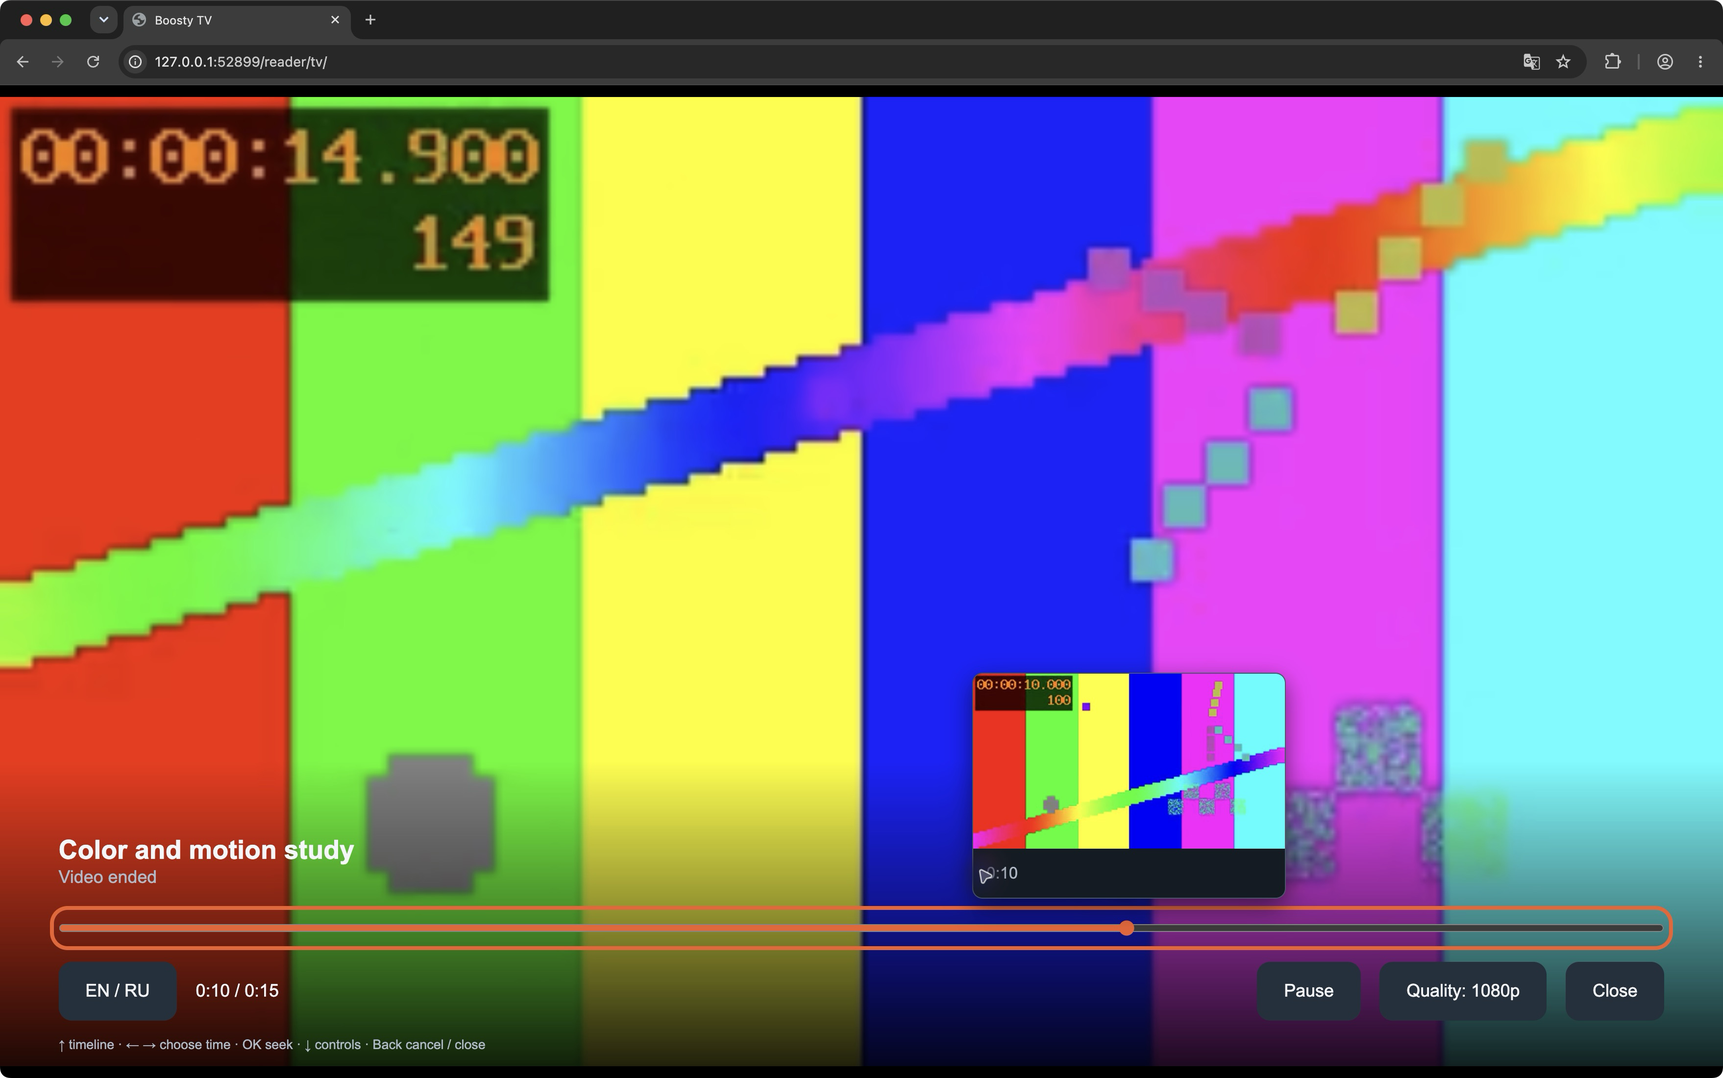
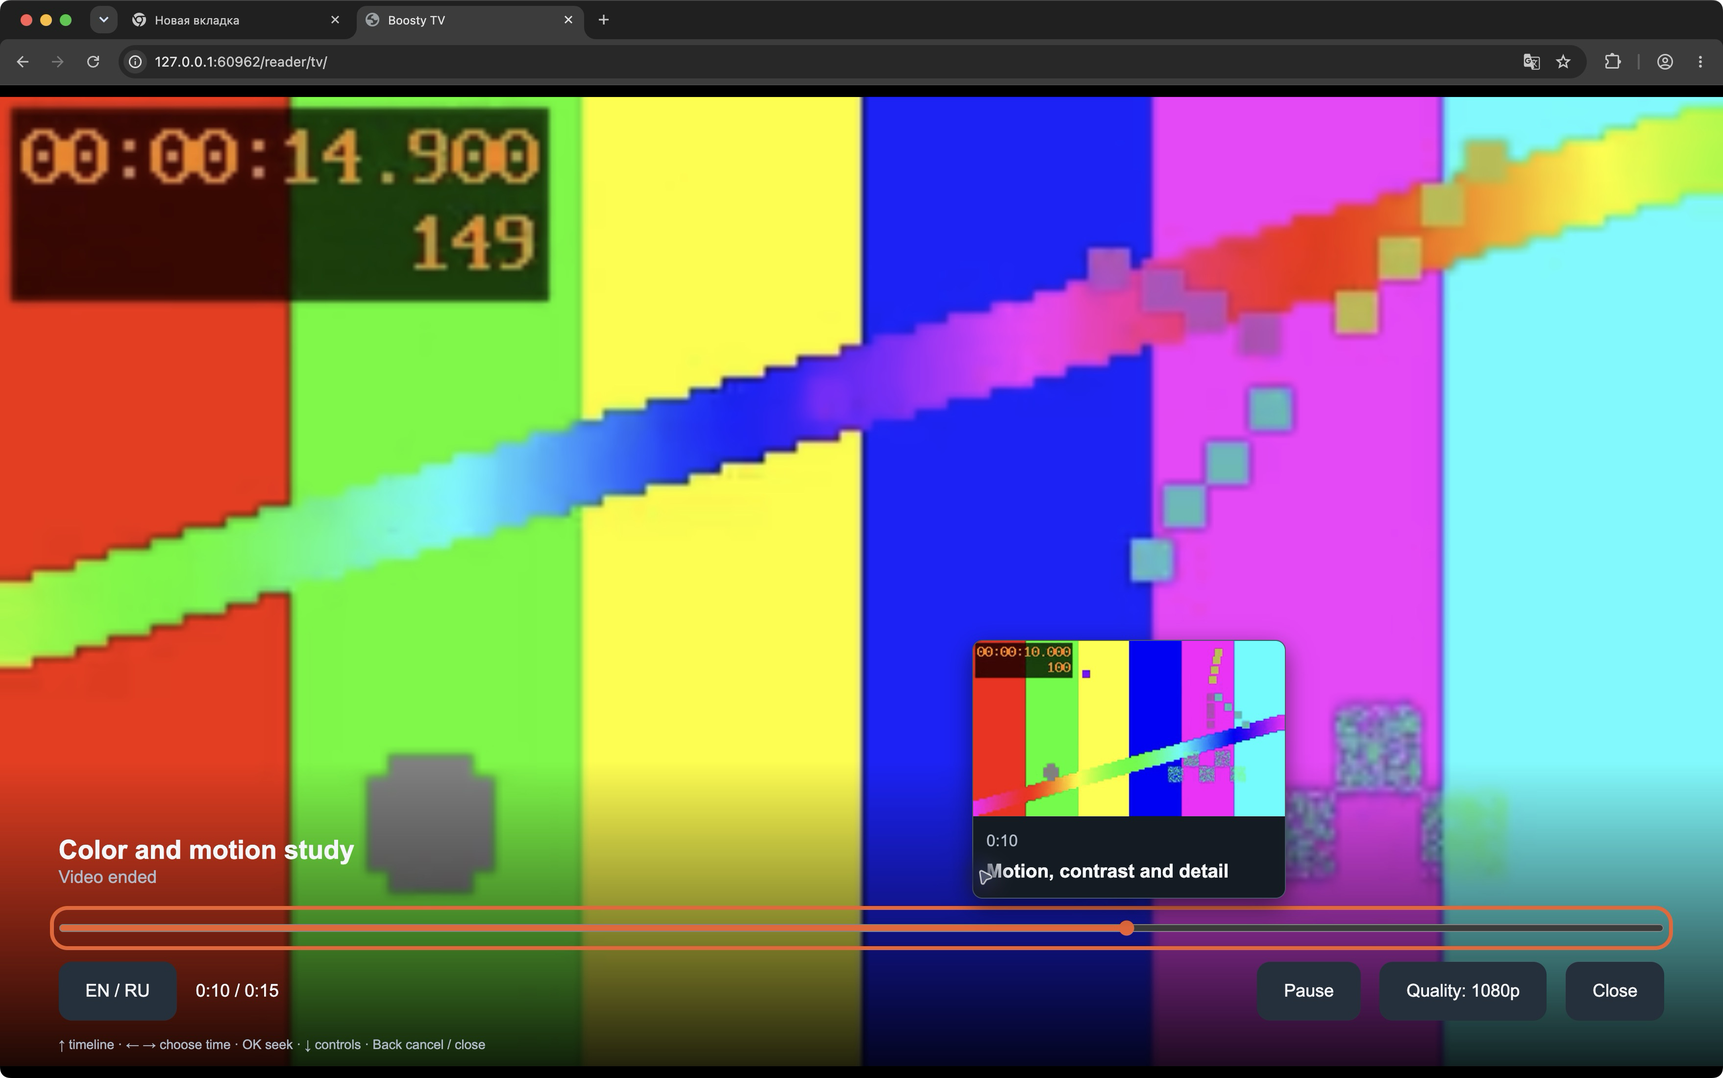
feat: add timeline chapter labels and public project guides

Changed region(s): [[0.558, 0.5873, 0.775, 0.8345], [0.062, 0.0, 0.341, 0.0618]]

diff --git a/web/tv/app.js b/web/tv/app.js
@@ -38,10 +38,15 @@ const framePreview = new FramePreview({
       panel.hidden = !visible;
       const photo = panel.querySelector('img'); photo.hidden = !visible || !state.image;
       if (photo.hidden) photo.removeAttribute('src'); else if (photo.src !== state.image) photo.src = state.image;
-      if (visible) write(panel.querySelector('figcaption'), state.status === 'cached'
-        ? ui('cachedFrame', {frame: time(state.frameSeconds), selected: time(state.target.seconds)})
-        : ui('frameCaption', () => ({time: time(state.target.seconds), caption: state.target.caption ? ' · ' + state.target.caption : '',
-          status: state.status === 'loading' ? ' · ' + i18n.text('loadingFrame') : state.status === 'error' ? ' · ' + i18n.text('frameUnavailable') : ''})));
+      if (visible) {
+        const caption = panel.querySelector('figcaption');
+        if (!caption.firstElementChild) caption.append(element('span'), element('strong', '', 'preview-chapter'));
+        write(caption.firstElementChild, ui('frameCaption', () => ({time: time(state.target.seconds),
+          status: state.status === 'cached' ? ' · ' + i18n.text('frameAt', {time: time(state.frameSeconds)})
+            : state.status === 'loading' ? ' · ' + i18n.text('loadingFrame') : state.status === 'error' ? ' · ' + i18n.text('frameUnavailable') : ''})));
+        caption.lastElementChild.hidden = !state.target.caption;
+        write(caption.lastElementChild, state.target.caption);
+      }
     }
     positionPreview();
   },
@@ -67,7 +72,14 @@ function selectFrame(post, video, seconds, caption = '') {
 function selectTimelineFrame() {
   if (!currentVideo || !currentPost || $('timeline').disabled || seeking) return;
   scrubPosition ??= player.position; previewMode = 'timeline';
-  selectFrame(currentPost, currentVideo, Math.floor(scrubPosition));
+  const seconds = Math.floor(scrubPosition);
+  let chapter;
+  for (const block of currentPost.body || []) {
+    if (block.type === 'timecode' && block.videoId === currentVideo.id && Number.isFinite(block.seconds)
+      && block.seconds >= 0 && block.seconds <= seconds && block.seconds < currentVideo.duration
+      && (!chapter || block.seconds > chapter.seconds)) chapter = block;
+  }
+  selectFrame(currentPost, currentVideo, seconds, chapter?.description || '');
 }
 function element(tag, text, className) { const node = document.createElement(tag); if (text) write(node, text); if (className) node.className = className; return node; }
 function message(text, error = false) { statusText = text; write(status, text); status.classList.toggle('error', error); }

diff --git a/shared/messages.js b/shared/messages.js
@@ -13,7 +13,7 @@ export const messages = {
     "content": "Content",
     "navigation": "Arrows — select · OK — open · Back — return",
     "player": "Video player",
-    "frameAlt": "Frame at selected time",
+    "frameAlt": "Video frame",
     "timeline": "Video position",
     "pause": "Pause",
     "quality": "Quality",
@@ -76,10 +76,10 @@ export const messages = {
     "closeApp": "Close application",
     "browserClose": "The app is open in a browser. You can close this tab.",
     "mediaKeysFailed": "Media keys could not be registered. Arrows and OK still work.",
-    "cachedFrame": "{frame} · Cached frame · selected {selected}",
+    "frameAt": "Frame {time}",
     "loadingFrame": "Loading frame…",
     "frameUnavailable": "Frame unavailable",
-    "frameCaption": "{time}{caption}{status}",
+    "frameCaption": "{time}{status}",
     "timeOf": "{position} of {duration}",
     "date": "{value}",
     "linkTitle": "Connect Boosty TV",
@@ -175,7 +175,7 @@ export const messages = {
     "content": "Содержимое",
     "navigation": "Стрелки — выбор · OK — открыть · Назад — вернуться",
     "player": "Видеоплеер",
-    "frameAlt": "Кадр выбранного времени",
+    "frameAlt": "Кадр видео",
     "timeline": "Позиция видео",
     "pause": "Пауза",
     "quality": "Качество",
@@ -238,10 +238,10 @@ export const messages = {
     "closeApp": "Закрыть приложение",
     "browserClose": "Приложение открыто в браузере. Можно закрыть вкладку.",
     "mediaKeysFailed": "Не удалось зарегистрировать медиакнопки. Стрелки и OK продолжают работать.",
-    "cachedFrame": "{frame} · Кадр из кэша · выбран {selected}",
+    "frameAt": "Кадр {time}",
     "loadingFrame": "Загружаем кадр…",
     "frameUnavailable": "Кадр недоступен",
-    "frameCaption": "{time}{caption}{status}",
+    "frameCaption": "{time}{status}",
     "timeOf": "{position} из {duration}",
     "date": "{value}",
     "linkTitle": "Подключить Boosty TV",

diff --git a/web/tv/style.css b/web/tv/style.css
@@ -5,4 +5,5 @@
 #timeline{display:block;width:100%;height:.9rem;margin:.7rem 0;accent-color:var(--accent);cursor:pointer}#timeline:focus{outline:4px solid var(--accent);outline-offset:5px;border-radius:.3rem}#timeline:disabled{opacity:.45}.publication-date{display:block;font-size:.5rem;color:var(--muted);margin-top:.4rem}.post>.publication-date{font-size:.65rem}
 .post-chapters{display:grid;gap:.15rem;margin:.4rem 0 1rem}.post-timecode{display:grid;grid-template-columns:4.4rem 1fr;gap:.7rem;align-items:baseline;width:100%;padding:.55rem .6rem;background:transparent;font-size:.72rem;white-space:normal;border-bottom:1px solid #344251;border-radius:.3rem}.post-timecode-time{color:#ffae91;font-variant-numeric:tabular-nums}.post-timecode-description{line-height:1.45}
 .post-reader.has-chapters{display:grid;grid-template-columns:minmax(0,1fr) minmax(240px,320px);gap:1rem;align-items:start}.chapter-preview,.frame-preview{margin:0;background:#141b24;border:1px solid #46576a;border-radius:.35rem;overflow:hidden;pointer-events:none}.chapter-preview{margin-top:.7rem;min-height:220px}.chapter-preview img,.frame-preview img{display:block;width:100%;aspect-ratio:16/9;object-fit:contain}.chapter-preview figcaption,.frame-preview figcaption{padding:.45rem;font-size:clamp(14px,.55rem,20px);line-height:1.4;color:var(--muted);overflow-wrap:anywhere}.timeline-track{position:relative}.frame-preview{position:absolute;bottom:calc(100% + .55rem);width:min(320px,100%);min-height:220px;box-shadow:0 8px 24px #0008}@media(max-width:900px){.post-reader.has-chapters{grid-template-columns:minmax(0,1fr)}.chapter-preview{width:min(320px,100%);margin:0 0 1rem}}
+.preview-chapter{display:-webkit-box;-webkit-line-clamp:3;-webkit-box-orient:vertical;overflow:hidden;margin-top:.2rem;color:#f3f6fa;font-size:clamp(16px,.65rem,22px);font-weight:600}
 .language { float: right; font-size: 18px; }

diff --git a/README.ru.md b/README.ru.md
@@ -1,11 +1,25 @@
-# Boosty TV
+# Boosty for Samsung TV (Tizen)
 
 Русский · [English](README.md)
 
-Неофициальный self-hosted клиент Boosty для Samsung Tizen TV и браузера ПК:
-полные посты с картинками, видео по подписке, главы и перемотка по таймлайну
-с кэшированными кадрами. Доступ определяется вашим аккаунтом и подписками
-Boosty; приложение не обходит ограничения.
+[![CI](https://github.com/staners2/boosty-samsung-tv/actions/workflows/ci.yml/badge.svg)](https://github.com/staners2/boosty-samsung-tv/actions/workflows/ci.yml)
+[![Лицензия: MIT](https://img.shields.io/badge/License-MIT-blue.svg)](LICENSE)
+
+Неофициальный клиент Boosty для Samsung Tizen TV и браузера ПК, работающий на
+вашем сервере. Читайте полные посты с картинками и смотрите видео по подписке
+с помощью пульта или мыши.
+
+Нужны **собственный HTTPS-сервер** и **аккаунт Boosty с привязанным номером
+телефона и доступом к нужным публикациям**. Приложение не обходит подписки.
+
+[Просмотр на ПК](#исходники-и-просмотр-на-пк) · [Docker Compose](#docker-compose) ·
+[Установка на Samsung TV](#установка-на-samsung-tv) · [Kubernetes / Helm](#kubernetes--helm)
+
+![Лента Boosty с авторами, датами и длительностью видео на демонстрационных данных](docs/screenshots/feed.png)
+
+Переходите к главам видео и выбирайте позицию на таймлайне с предпросмотром
+кадра. Если в посте есть описания глав с таймкодами, при выборе позиции
+отображается и соответствующее описание.
 
 По умолчанию интерфейс английский. Кнопка **EN / RU** есть на главном экране,
 в плеере и на странице телефона. Явный выбор сохраняется локально.
@@ -54,12 +68,19 @@ flowchart LR
 - Docker Compose либо Kubernetes с Helm и постоянным RWO-хранилищем.
 - Собственный HTTPS-домен с доверенным TLS-сертификатом, доступный ТВ и телефону.
 - Аккаунт Boosty с привязанным номером и доступом к нужным публикациям.
-- Для установки на ТВ пакет требует Samsung Tizen 9.0+. Совместимость со
-  старыми версиями не заявлена. На ПК достаточно современного браузера.
+- Для установки на ТВ: Tizen Studio с TV/Web tools и ваш сертификат Samsung.
+  Для браузера ПК отдельный установщик не нужен.
 
 Используется неофициальный upstream API: изменения Boosty могут влиять на работу.
 Не выставляйте сервис без TLS. HTTP разрешён только для локальной разработки
 через loopback.
+
+## Совместимость
+
+| Платформа | Требование | Что проверяется |
+| --- | --- | --- |
+| Samsung TV | В [config.xml](tizen/config.xml) заявлен Tizen 9.0+ | Нативный AVPlay, кодеки и пульт требуют проверки текущей версии на целевом ТВ. Совместимость со старыми Tizen не заявлена. |
+| Браузер ПК | Современный настольный браузер | Тесты UI с фикстурами и демонстрационные скриншоты охватывают навигацию и плеер. Поддержка HLS и кодеков зависит от браузера. |
 
 ## Первый запуск: создать ключ один раз
 
@@ -226,6 +247,8 @@ FFmpeg должен быть в PATH.
 Назад отменяет выбор. Поддержка HLS зависит от браузера; выбирайте доступный MP4
 при необходимости. Файлы и внешние ссылки открывают QR для телефона; текст,
 изображения, видео и главы отображаются в приложении.
+Если в посте есть описания с таймкодами для воспроизводимого видео, при выборе
+позиции на таймлайне отображается текст соответствующей главы.
 
 ## Установка на Samsung TV
 
@@ -299,6 +322,21 @@ Helm/Compose. Для всего набора нужны FFmpeg, Helm и Docker C
 фиктивного входа нет.
 
 В публикацию не входят зависимости, dist, ключи/данные, .env, подписи и частные
-настройки развёртывания. История частного Git не переносится. Перед публичным
-релизом выберите и добавьте согласованную LICENSE: лицензия использования пока
-не назначена. Это не официальный продукт Boosty/Samsung и не заявка в Samsung Store.
+настройки развёртывания. История частного Git не переносится. Это не официальный
+продукт Boosty/Samsung и не заявка в Samsung Store.
+
+## Поддержка и участие
+
+Для воспроизводимой ошибки заполните [форму сообщения](https://github.com/staners2/boosty-samsung-tv/issues/new?template=bug_report.yml).
+Укажите модель ТВ и версию Tizen либо версию браузера, commit/tag приложения,
+способ установки сервера, шаги и ошибки без чувствительных данных. Не публикуйте
+токены, cookies, номера телефонов, ключи хранилища, подписанные ссылки на видео
+или действующие QR-коды подключения.
+
+Для изменений сохраняйте узкий объём задачи, выполняйте `npm test` и
+`npm run build`, описывайте результат для пользователя и проведённые проверки.
+Для изменений Samsung TV укажите, проверялись ли они на физическом телевизоре.
+
+## Лицензия
+
+[MIT](LICENSE) · Copyright (c) 2026 staners2.

diff --git a/README.md b/README.md
@@ -1,11 +1,25 @@
-# Boosty TV
+# Boosty for Samsung TV (Tizen)
 
-[Русский](README.ru.md) · English
+English · [Русский](README.ru.md)
 
-Self-hosted, unofficial Boosty reader and video client for Samsung Tizen TVs and
-PC browsers. Read full posts with images, watch subscription videos, navigate
-chapters and seek on a timeline with cached frame previews. Content access still
-depends on your Boosty account and subscriptions; the app does not bypass them.
+[![CI](https://github.com/staners2/boosty-samsung-tv/actions/workflows/ci.yml/badge.svg)](https://github.com/staners2/boosty-samsung-tv/actions/workflows/ci.yml)
+[![License: MIT](https://img.shields.io/badge/License-MIT-blue.svg)](LICENSE)
+
+An unofficial, self-hosted Boosty client for Samsung Tizen TVs and PC browsers.
+Read full posts with images and watch videos from your subscriptions using a TV
+remote or mouse.
+
+You need **your own HTTPS server** and a **Boosty account with a linked phone
+number and access to the desired posts**. The app does not bypass subscriptions.
+
+[PC browser](#source-development-and-pc-use) · [Docker Compose](#docker-compose) ·
+[Samsung TV installation](#samsung-tv-installation) · [Kubernetes / Helm](#kubernetes--helm)
+
+![Boosty feed with creator posts, dates and video durations, shown with demo content](docs/screenshots/feed.png)
+
+Navigate video chapters and select a timeline position with frame previews.
+When a post contains timecoded chapter descriptions, the timeline also shows the
+description for the selected position.
 
 English is the first-run language. Use **EN / RU** in the main screen, player or
 phone page. Your explicit choice is saved locally. Creator content is not translated.
@@ -53,11 +67,18 @@ users must first link a phone number to the same Boosty account.
 - Docker with Compose, or Kubernetes with Helm and persistent RWO storage.
 - Your own HTTPS hostname and trusted TLS certificate, reachable from TV/phone.
 - A Boosty account with a linked phone number and access to the desired posts.
-- For TV sideloading: Samsung Tizen 9.0+ is the current package requirement.
-  Older versions are not claimed supported. A modern PC browser needs no installer.
+- For TV sideloading: Tizen Studio with TV/Web tools and your Samsung signing
+  certificate. A PC browser needs no installer.
 
 The app uses an unofficial upstream API; Boosty changes can affect compatibility.
 Do not expose the broker without TLS. HTTP is accepted only for loopback development.
+
+## Compatibility
+
+| Platform | Requirement | Validation scope |
+| --- | --- | --- |
+| Samsung TV | Tizen 9.0+ is declared in [config.xml](tizen/config.xml) | Native AVPlay, codecs and remote controls need acceptance on the target TV for the current version. Older Tizen versions are not claimed supported. |
+| PC browser | A modern desktop browser | Browser UI fixtures and demo screenshots cover navigation and player behavior. HLS and codec support vary by browser. |
 
 ## First setup: create the key once
 
@@ -222,6 +243,8 @@ needed. Use arrows/OK/Back, or mouse controls. Focus the timeline, use ←/→ t
 time, then OK to seek; Back cancels selection. Browser HLS support varies; select
 an available MP4 quality when needed. Files/external links open a phone QR;
 post text, images, video and chapters render inside the app.
+If the post contains timecoded descriptions for the playing video, selecting a
+timeline position shows the corresponding chapter text.
 
 ## Samsung TV installation
 
@@ -296,6 +319,20 @@ configuration rendering. There are no production mock-login switches.
 
 Source publication excludes dependencies, dist, vault data/keys, .env, signing
 material and private deployment configuration. No private Git history is part
-of this project. Choose and add an owner-approved LICENSE before public release;
-no reuse license has been assigned yet. This is not an official Boosty or Samsung
-product, and it is not a Samsung Store submission.
+of this project. This is not an official Boosty or Samsung product, and it is not
+a Samsung Store submission.
+
+## Support and contributions
+
+For a reproducible problem, use the [bug report form](https://github.com/staners2/boosty-samsung-tv/issues/new?template=bug_report.yml).
+Include the TV model and Tizen version or browser version, app commit/tag, server
+installation method, steps and sanitized errors. Never share tokens, cookies,
+phone numbers, vault keys, signed media URLs or active pairing QR codes.
+
+For a contribution, keep the change focused, run `npm test` and `npm run build`,
+and describe the user-visible result and what you verified. TV-specific changes
+should state whether they were tested on a physical Samsung TV.
+
+## License
+
+[MIT](LICENSE) · Copyright (c) 2026 staners2.
